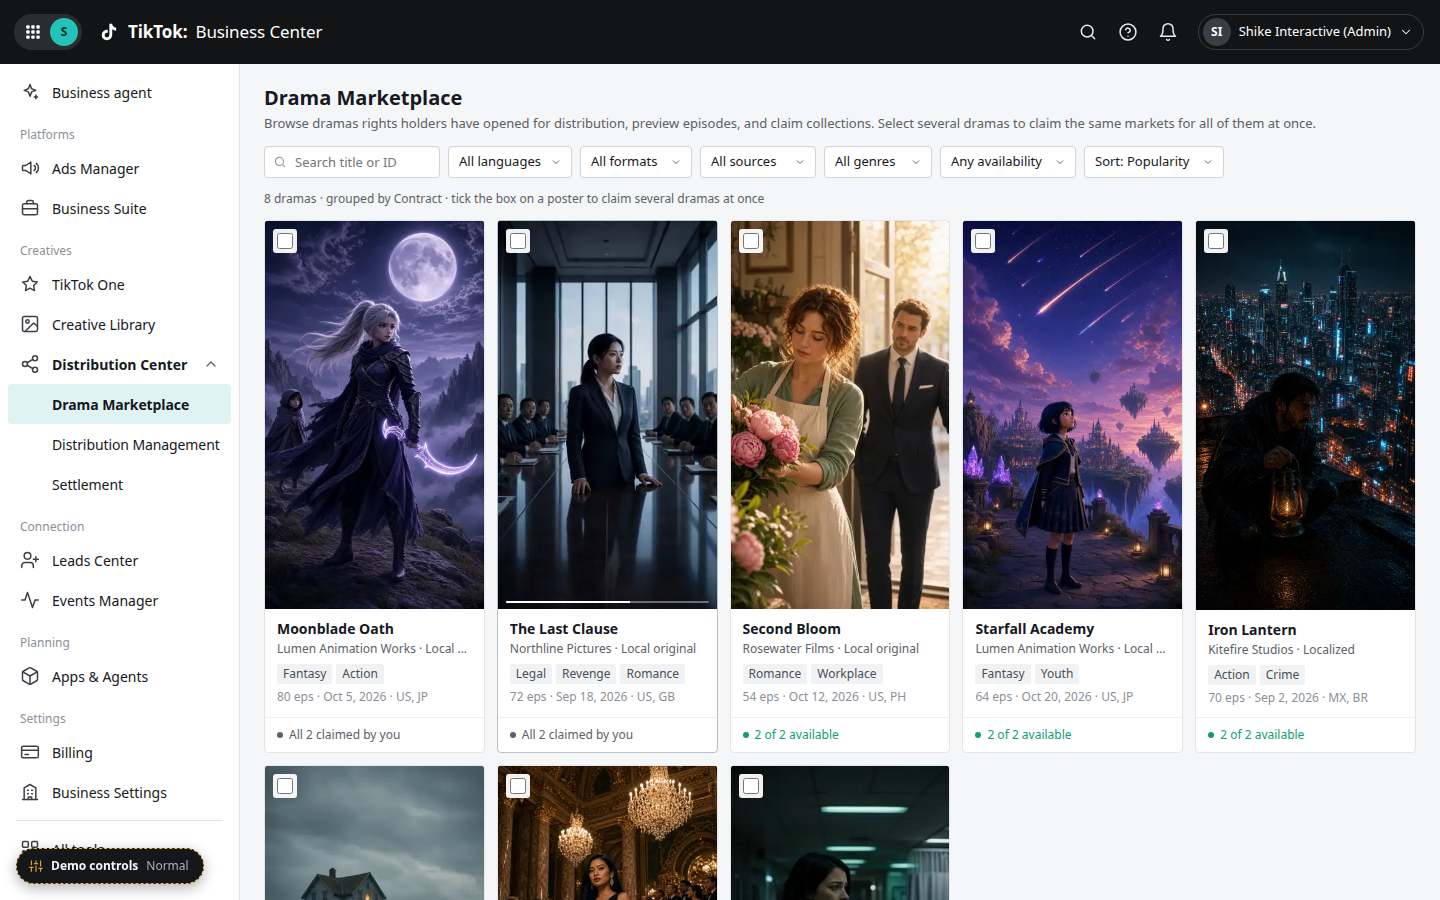
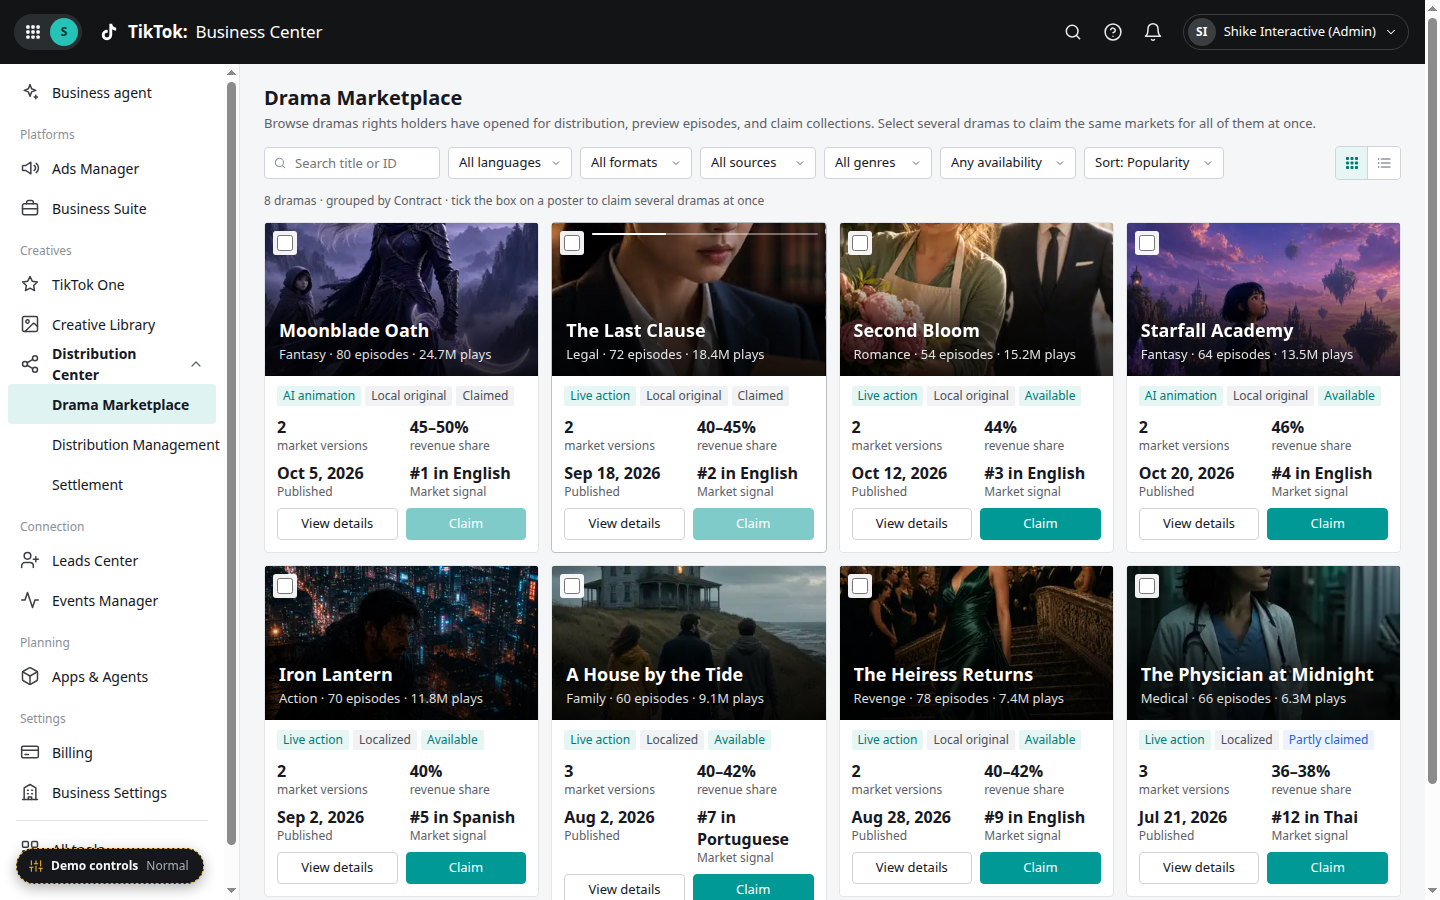
Sync prototype: Marketplace cover overlay and list view
Put title, episodes, and plays on a 16:9 cover with a dark gradient, shrink cards, and add a session-persisted card/list toggle that matches Distribution Management table chrome.

diff --git a/index.html b/index.html
@@ -77,6 +77,7 @@ button,input,select{font:inherit;color:inherit}
 .btn-icon:hover{background:var(--hover);color:var(--text)}
 .btn-link{border:0;background:none;padding:0;height:auto;color:var(--primary-t);font-weight:500;cursor:pointer;display:inline-flex;align-items:center;gap:4px;font-size:inherit}
 .btn-link:hover{text-decoration:underline}
+.btn-link[disabled]{opacity:.45;cursor:not-allowed;text-decoration:none}
 .btn[disabled]{opacity:.5;cursor:not-allowed}
 .btn.loading{pointer-events:none;opacity:.8}
 .input,.select{height:32px;border:1px solid var(--border2);border-radius:4px;background:#fff;padding:0 10px;outline:none;min-width:0}
@@ -183,12 +184,17 @@ button.kpi.on{box-shadow:inset 0 -2px 0 var(--primary)}
 .kpi-v.err{color:var(--err)}.kpi-v.warn{color:var(--warn)}
 
 /* Marketplace */
-.grid{display:grid;grid-template-columns:repeat(auto-fill,minmax(200px,1fr));gap:12px}
+.grid{display:grid;grid-template-columns:repeat(auto-fill,minmax(248px,1fr));gap:12px;align-items:start}
 .card{background:#fff;border:1px solid var(--border);border-radius:4px;overflow:hidden;cursor:pointer;display:flex;flex-direction:column;text-align:left;padding:0}
 .card:hover{border-color:#B9C0C7}
 .card:focus-visible{outline:2px solid var(--primary);outline-offset:1px}
 .card.picked{border-color:var(--primary);box-shadow:0 0 0 1px var(--primary)}
 .card-pick{width:24px;height:24px;border-radius:3px;background:rgba(255,255,255,.94);display:inline-flex;align-items:center;justify-content:center;cursor:pointer}
+.view-seg{display:inline-flex;border:1px solid var(--border2);border-radius:4px;overflow:hidden}
+.view-seg button{width:32px;height:32px;padding:0;border:0;border-right:1px solid var(--border2);background:#fff;color:var(--text2);display:inline-flex;align-items:center;justify-content:center;cursor:pointer}
+.view-seg button:last-child{border-right:0}
+.view-seg button:hover{background:var(--hover);color:var(--text)}
+.view-seg button.on{background:var(--primary-bg);color:var(--primary-t)}
 .selbar{position:fixed;left:264px;right:24px;bottom:16px;z-index:60;background:#fff;border:1px solid var(--border2);border-left:3px solid var(--primary);border-radius:4px;box-shadow:0 4px 16px rgba(22,24,35,.14);display:flex;align-items:center;gap:8px;padding:8px 12px 8px 16px}
 .selbar .grow{flex:1;min-width:0;overflow:hidden;text-overflow:ellipsis;white-space:nowrap;color:var(--text2)}
 .selbar .grow b{color:var(--text)}
@@ -207,13 +213,13 @@ button.kpi.on{box-shadow:inset 0 -2px 0 var(--primary)}
 .mk-chip .faint{font-weight:400;font-size:12px}
 .flow-h{font-size:12px;font-weight:600;color:var(--text2);margin:0 0 8px}
 .tbl td.grp{border-right:1px solid var(--row);vertical-align:top}
-.poster-box{position:relative;aspect-ratio:9/16;background:#1d2329;overflow:hidden}
-.cover .cv-media{position:absolute;inset:0;width:100%;height:100%;object-fit:cover;display:block}
+.poster-box{position:relative;aspect-ratio:16/9;background:#1d2329;overflow:hidden}
+.cover .cv-media{position:absolute;inset:0;width:100%;height:100%;object-fit:cover;display:block;z-index:0}
 .cover .cv-f{opacity:0;transition:opacity .5s}
 .cover .cv-f.on{opacity:1}
 .cover .cv-v{opacity:0;transition:opacity .25s}
 .cover .cv-v.on{opacity:1}
-.cv-prog{position:absolute;left:8px;right:8px;bottom:6px;display:flex;gap:3px;opacity:0;transition:opacity .2s;pointer-events:none}
+.cv-prog{position:absolute;left:40px;right:8px;top:10px;bottom:auto;display:flex;gap:3px;opacity:0;transition:opacity .2s;pointer-events:none;z-index:4}
 .cover.hov .cv-prog{opacity:1}
 .cover.nomedia .cv-prog{display:none}
 .cv-prog i{flex:1;height:2px;background:rgba(255,255,255,.38);border-radius:1px;overflow:hidden}
@@ -221,18 +227,27 @@ button.kpi.on{box-shadow:inset 0 -2px 0 var(--primary)}
 .cv-prog i.done b{width:100%}
 .cv-prog i.run b{animation:cvfill 800ms linear forwards}
 @keyframes cvfill{from{width:0}to{width:100%}}
-.poster-box svg.poster{position:absolute;inset:0;width:100%;height:100%;display:block}
-.poster-box .ov-tl{position:absolute;top:8px;left:8px;display:flex;gap:4px}
-.poster-box .ov-tr{position:absolute;top:8px;right:8px}
-.poster-box .ov-b{position:absolute;left:0;right:0;bottom:0;padding:24px 10px 8px;background:linear-gradient(transparent,rgba(0,0,0,.65));color:#fff;font-size:12px;display:flex;justify-content:space-between}
-.card-b{padding:10px 12px;display:flex;flex-direction:column;gap:1px;flex:1;min-width:0}
+.poster-box svg.poster{position:absolute;inset:0;width:100%;height:100%;display:block;z-index:0}
+.poster-box .ov-tl{position:absolute;top:8px;left:8px;display:flex;gap:4px;z-index:5}
+.poster-box .ov-tr{position:absolute;top:8px;right:8px;z-index:5}
+.poster-box .ov-b{position:absolute;left:0;right:0;bottom:0;padding:40px 14px 12px;background:linear-gradient(180deg,transparent 0%,rgba(0,0,0,.55) 42%,rgba(0,0,0,.82) 100%);color:#fff;display:flex;align-items:flex-end;gap:10px;z-index:3;pointer-events:none}
+.ov-copy{min-width:0;flex:1}
+.ov-t{font-size:18px;font-weight:700;line-height:24px;color:#fff;text-shadow:0 1px 2px rgba(0,0,0,.35)}
+.ov-m{font-size:13px;line-height:20px;color:rgba(255,255,255,.88);margin-top:2px}
+.card-b{padding:10px 12px 8px;display:flex;flex-direction:column;gap:10px;min-width:0}
 .card-t{font-size:14px;font-weight:600;line-height:20px;color:var(--text)}
 .card-m{font-size:12px;color:var(--text2);line-height:18px}
 .card .ell{white-space:nowrap;overflow:hidden;text-overflow:ellipsis}
-.card .tags{max-height:20px;overflow:hidden;margin:5px 0 3px}
+.card .tags{display:flex;flex-wrap:wrap;gap:4px;max-height:none;overflow:visible;margin:0}
 .card-meta{font-size:12px;color:var(--text3);line-height:18px}
+.card-stats{display:grid;grid-template-columns:1fr 1fr;gap:8px 16px}
+.card-stats .n{font-size:16px;font-weight:600;line-height:22px;color:var(--text)}
+.card-stats .l{font-size:12px;color:var(--text2);line-height:16px}
+.card-acts{display:grid;grid-template-columns:1fr 1fr;gap:8px;padding:0 12px 12px}
+.card-acts .btn{width:100%}
 .card-f{padding:7px 12px;border-top:1px solid var(--row);display:flex;align-items:center;min-height:31px;font-size:12px}
 .mk-count{font-size:12px;color:var(--text2)}
+.thumb.wide{width:48px;height:27px}
 
 /* Drawer & modal */
 .mask{position:fixed;inset:0;background:rgba(22,24,35,.45);z-index:100;opacity:0;transition:opacity .15s}
@@ -429,6 +444,7 @@ button.kpi.on{box-shadow:inset 0 -2px 0 var(--primary)}
 <svg width="0" height="0" style="position:absolute" aria-hidden="true">
   <defs>
     <symbol id="i-grid" viewBox="0 0 24 24" fill="currentColor"><rect x="3" y="3" width="4.5" height="4.5" rx="1.2"/><rect x="9.75" y="3" width="4.5" height="4.5" rx="1.2"/><rect x="16.5" y="3" width="4.5" height="4.5" rx="1.2"/><rect x="3" y="9.75" width="4.5" height="4.5" rx="1.2"/><rect x="9.75" y="9.75" width="4.5" height="4.5" rx="1.2"/><rect x="16.5" y="9.75" width="4.5" height="4.5" rx="1.2"/><rect x="3" y="16.5" width="4.5" height="4.5" rx="1.2"/><rect x="9.75" y="16.5" width="4.5" height="4.5" rx="1.2"/><rect x="16.5" y="16.5" width="4.5" height="4.5" rx="1.2"/></symbol>
+    <symbol id="i-list" viewBox="0 0 24 24" fill="none" stroke="currentColor" stroke-width="1.8" stroke-linecap="round"><path d="M8 6h13M8 12h13M8 18h13"/><circle cx="4" cy="6" r="1.2" fill="currentColor" stroke="none"/><circle cx="4" cy="12" r="1.2" fill="currentColor" stroke="none"/><circle cx="4" cy="18" r="1.2" fill="currentColor" stroke="none"/></symbol>
     <symbol id="i-tiktok" viewBox="0 0 24 24" fill="currentColor"><path d="M16.6 5.8A4.3 4.3 0 0 1 15.5 3h-3.1v12.4a2.6 2.6 0 1 1-2.6-2.6c.3 0 .5 0 .8.1V9.7a5.7 5.7 0 1 0 4.9 5.7V9.1a7.4 7.4 0 0 0 4.3 1.4V7.4a4.3 4.3 0 0 1-3.2-1.6z"/></symbol>
     <symbol id="i-search" viewBox="0 0 24 24" fill="none" stroke="currentColor" stroke-width="1.8" stroke-linecap="round" stroke-linejoin="round"><circle cx="11" cy="11" r="7"/><path d="m20 20-3.6-3.6"/></symbol>
     <symbol id="i-help" viewBox="0 0 24 24" fill="none" stroke="currentColor" stroke-width="1.8" stroke-linecap="round" stroke-linejoin="round"><circle cx="12" cy="12" r="9.5"/><path d="M9.2 9.2a2.9 2.9 0 0 1 5.6 1c0 1.9-2.8 2.6-2.8 2.6"/><path d="M12 17h.01"/></symbol>
@@ -624,7 +640,7 @@ const S = {state:'normal', page:null, data:null, after:null};
 const UI = freshUI();
 function freshUI(){
   return {
-    mk:{q:'', lang:'all', format:'all', source:'all', genre:'all', avail:'all', sort:'pop'},
+    mk:{q:'', lang:'all', format:'all', source:'all', genre:'all', avail:'all', sort:'pop', view:'card', page:1, size:10},
     lv:{q:'', status:'all', market:'all', range:'30', from:'2026-10-07', to:DEMO_TODAY, page:1, size:10, menu:null},
     pick:new Set(),
     bd:{q:'', open:new Set(['CTR-902184'])},
@@ -995,6 +1011,79 @@ function claimSummary(ctrId){
   if (n('available')) return `<span class="st ok">${n('available')} of ${cs.length} available</span>`;
   return `<span class="st muted">All ${cs.length} claimed by you</span>`;
 }
+function mkStats(c){
+  const cs = colsOf(c.id);
+  const avail = cs.filter(x => x.claim === 'available' && x.dist === 'open');
+  const claimed = cs.filter(x => x.claim === 'claimed').length;
+  const confirming = cs.filter(x => x.claim === 'confirming').length;
+  const shares = cs.map(x => x.share);
+  const lo = Math.min.apply(null, shares), hi = Math.max.apply(null, shares);
+  const share = !shares.length ? '—' : lo === hi ? lo + '%' : lo + '–' + hi + '%';
+  let status = 'Available', statusCls = 'teal';
+  if (confirming && !avail.length){ status = 'Confirming'; statusCls = 'info'; }
+  else if (avail.length && claimed){ status = 'Partly claimed'; statusCls = 'info'; }
+  else if (!avail.length && claimed === cs.length){ status = 'Claimed'; statusCls = ''; }
+  else if (!avail.length){ status = 'Unavailable'; statusCls = 'err'; }
+  const lang = cs[0] ? cs[0].lang : '';
+  return {n:cs.length, share, status, statusCls, canClaim:avail.length > 0, pre:avail.map(x => x.id), genre:c.genres[0] || '', signal:'#' + c.rank + (lang ? ' in ' + lang : '')};
+}
+function mkViewSeg(){
+  const v = UI.mk.view === 'list' ? 'list' : 'card';
+  return `<div class="view-seg" role="tablist" aria-label="Marketplace view">
+    <button type="button" class="${v === 'card' ? 'on' : ''}" data-act="mk-view" data-v="card" role="tab" aria-selected="${v === 'card'}" aria-label="Card view">${ic('grid', 16)}</button>
+    <button type="button" class="${v === 'list' ? 'on' : ''}" data-act="mk-view" data-v="list" role="tab" aria-selected="${v === 'list'}" aria-label="List view">${ic('list', 16)}</button>
+  </div>`;
+}
+function mkPagerHtml(total){
+  const size = UI.mk.size || 10;
+  const pages = Math.max(1, Math.ceil(total / size));
+  const p = Math.min(Math.max(1, UI.mk.page || 1), pages);
+  let nums = '';
+  for (let i = 1; i <= pages; i++) nums += `<button type="button" class="pg-btn ${i === p ? 'on' : ''}" data-act="mk-page" data-p="${i}" ${i === p ? 'aria-current="page"' : ''}>${i}</button>`;
+  const from = total ? (p - 1) * size + 1 : 0, to = Math.min(p * size, total);
+  return `<div class="pager">
+    <label class="faint" style="display:inline-flex;align-items:center;gap:6px">Rows per page
+      <select class="select" style="width:68px" name="mk-size" data-chg="mk-size" aria-label="Page size">${[10, 20].map(n => `<option value="${n}" ${size === n ? 'selected' : ''}>${n}</option>`).join('')}</select>
+    </label>
+    <div class="pg-pages">
+      <button type="button" class="pg-btn" data-act="mk-page" data-p="${p - 1}" ${p <= 1 ? 'disabled' : ''} aria-label="Previous page">${ic('chev-left', 14)}</button>
+      ${nums}
+      <button type="button" class="pg-btn" data-act="mk-page" data-p="${p + 1}" ${p >= pages ? 'disabled' : ''} aria-label="Next page">${ic('chev-right', 14)}</button>
+    </div>
+    <span class="faint">${from}–${to} of ${plural(total, 'drama')}</span>
+  </div>`;
+}
+function mkList(list){
+  const size = UI.mk.size || 10;
+  const pages = Math.max(1, Math.ceil(list.length / size));
+  const page = Math.min(Math.max(1, UI.mk.page || 1), pages);
+  if (UI.mk.page !== page) UI.mk.page = page;
+  const rows = list.slice((page - 1) * size, page * size);
+  const head = `<thead><tr>
+    <th style="width:22%">Drama</th>
+    <th style="width:20%">Tags</th>
+    <th class="num" style="width:80px">Markets</th>
+    <th class="num" style="width:110px">Revenue share</th>
+    <th style="width:100px">Published</th>
+    <th style="width:12%">Market signal</th>
+    <th style="width:110px">Status</th>
+    <th class="act" style="width:168px">Action</th>
+  </tr></thead>`;
+  const body = rows.map(c => {
+    const st = mkStats(c);
+    return `<tr class="clickable" data-act="open-drama" data-id="${c.id}">
+      <td><div class="drama-cell"><div class="thumb wide">${poster(c.id)}</div><div class="meta"><div class="cell-title ell" title="${esc(c.title)}">${c.title}</div><div class="cell-sub ell">${esc(st.genre)} · ${c.episodes} episodes · ${esc(c.plays)} plays</div></div></div></td>
+      <td><div class="tags"><span class="tag teal">${esc(c.format)}</span><span class="tag">${esc(c.source)}</span></div></td>
+      <td class="num">${st.n}</td>
+      <td class="num">${st.share}</td>
+      <td class="nowrap">${c.launchL}</td>
+      <td>${esc(st.signal)}</td>
+      <td><span class="tag ${st.statusCls}">${st.status}</span></td>
+      <td class="act"><div class="act-row"><button type="button" class="btn-link" data-act="open-drama" data-id="${c.id}">View details</button><button type="button" class="btn-link" data-act="mk-claim" data-id="${c.id}" ${st.canClaim ? '' : 'disabled'}>Claim</button></div></td>
+    </tr>`;
+  }).join('');
+  return `<div class="panel"><div class="tbl-wrap"><table class="tbl">${head}<tbody>${body}</tbody></table></div>${mkPagerHtml(list.length)}</div>`;
+}
 function mkFiltered(){
   const f = UI.mk; const q = f.q.trim().toLowerCase();
   let list = CONTRACTS.filter(c => {
@@ -1033,10 +1122,13 @@ function pageMarketplace(){
       ${sel('mk.genre', f.genre, [['all','All genres']].concat(genres.map(g => [g, g])), 'Genre', 108)}
       ${sel('mk.avail', f.avail, [['all','Any availability'],['available','Has available collections'],['claimed','Claimed by me']], 'Availability', 136)}
       ${sel('mk.sort', f.sort, [['pop','Sort: Popularity'],['new','Sort: Newest'],['eps','Sort: Fewest episodes']], 'Sort', 140)}
-    </div></div>`;
+    </div><div class="right">${mkViewSeg()}</div></div>`;
   }
+  const listView = f.view === 'list';
   if (st === 'loading'){
-    out += '<div class="grid">' + Array.from({length:4}, () => '<div class="card" style="cursor:default"><div class="poster-box sk" style="border-radius:0"></div><div class="card-b"><div class="sk" style="height:14px;width:70%"></div><div class="sk" style="height:10px;width:50%"></div><div class="sk" style="height:10px;width:85%"></div></div></div>').join('') + '</div>';
+    out += listView
+      ? `<div class="panel"><div class="tbl-wrap"><table class="tbl"><thead><tr><th>Drama</th><th>Tags</th><th>Markets</th><th>Revenue share</th><th>Published</th><th>Market signal</th><th>Status</th><th>Action</th></tr></thead><tbody>${skelRows(6, 8)}</tbody></table></div></div>`
+      : '<div class="grid">' + Array.from({length:4}, () => '<div class="card" style="cursor:default"><div class="poster-box sk" style="border-radius:0"></div><div class="card-b"><div class="sk" style="height:14px;width:70%"></div><div class="sk" style="height:10px;width:50%"></div><div class="sk" style="height:10px;width:85%"></div></div></div>').join('') + '</div>';
   } else if (st === 'error'){
     out += errorBlock('dramas');
   } else if (st === 'empty'){
@@ -1044,9 +1136,9 @@ function pageMarketplace(){
   } else {
     const list = mkFiltered();
     const pk = UI.pick.size;
-    out += `<div class="mk-count">${plural(list.length, 'drama')} · grouped by Contract${pk ? '' : ' · tick the box on a poster to claim several dramas at once'}</div>`;
+    out += `<div class="mk-count">${plural(list.length, 'drama')} · grouped by Contract${listView || pk ? '' : ' · tick the box on a poster to claim several dramas at once'}</div>`;
     if (!list.length) out += '<div class="panel">' + emptyBlock('search', 'No dramas match your filters', 'Try a different keyword or clear filters.', '<button class="btn" data-act="mk-clear">Clear filters</button>') + '</div>';
-    else out += '<div class="grid">' + list.map(card).join('') + '</div>';
+    else out += listView ? mkList(list) : '<div class="grid">' + list.map(card).join('') + '</div>';
     if (pk){
       const names = Array.from(UI.pick).map(id => ctrOf(id).title);
       out += `<div class="page-pad-sel"></div><div class="selbar" role="region" aria-label="Selected dramas"><span class="grow"><b>${plural(pk, 'drama')} selected</b> · ${esc(names.join(', '))}</span><button class="btn" data-act="pick-all">Select all shown</button><button class="btn" data-act="pick-clear">Clear</button><button class="btn btn-primary" data-act="bulk-claim">Claim collections</button></div>`;
@@ -1062,19 +1154,26 @@ function cover(id){
 }
 function card(c){
   const on = UI.pick.has(c.id);
-  const markets = Array.from(new Set(colsOf(c.id).map(x => x.code))).join(', ');
-  const meta = `${c.episodes} eps · ${c.launchL} · ${markets}`;
+  const st = mkStats(c);
+  const meta = `${st.genre} · ${c.episodes} episodes · ${c.plays} plays`;
   return `<div class="card ${on ? 'picked' : ''}" role="button" tabindex="0" data-act="open-drama" data-id="${c.id}" aria-label="${esc(c.title)}">
     ${cover(c.id)}
       <div class="ov-tl"><label class="card-pick" title="Select for bulk claim"><input type="checkbox" class="cb" name="pick-${c.id}" data-chg="mk-pick" data-id="${c.id}" ${on ? 'checked' : ''} aria-label="Select ${esc(c.title)}"></label></div>
+      <div class="ov-b"><div class="ov-copy"><div class="ov-t ell" title="${esc(c.title)}">${c.title}</div><div class="ov-m ell" title="${esc(meta)}">${esc(meta)}</div></div></div>
     </div>
     <div class="card-b">
-      <div class="card-t ell" title="${esc(c.title)}">${c.title}</div>
-      <div class="card-m ell" title="${esc(c.holder + ' · ' + c.source)}">${c.holder} · ${c.source}</div>
-      <div class="tags">${c.genres.map(g => '<span class="tag">' + g + '</span>').join('')}</div>
-      <div class="card-meta ell" title="${esc(c.episodes + ' episodes · launched ' + c.launchL + ' · markets ' + markets)}">${meta}</div>
+      <div class="tags"><span class="tag teal">${esc(c.format)}</span><span class="tag">${esc(c.source)}</span><span class="tag ${st.statusCls}">${st.status}</span></div>
+      <div class="card-stats">
+        <div><div class="n">${st.n}</div><div class="l">market versions</div></div>
+        <div><div class="n">${st.share}</div><div class="l">revenue share</div></div>
+        <div><div class="n">${c.launchL}</div><div class="l">Published</div></div>
+        <div><div class="n">${esc(st.signal)}</div><div class="l">Market signal</div></div>
+      </div>
     </div>
-    <div class="card-f">${claimSummary(c.id)}</div></div>`;
+    <div class="card-acts">
+      <button type="button" class="btn" data-act="open-drama" data-id="${c.id}">View details</button>
+      <button type="button" class="btn btn-primary" data-act="mk-claim" data-id="${c.id}" ${st.canClaim ? '' : 'disabled'}>Claim</button>
+    </div></div>`;
 }
 
 /* Cover hover previews: clip, keyframes, static */
@@ -1084,7 +1183,8 @@ function coverEnter(box){
   const id = box.dataset.id, m = box.dataset.cover;
   if (m === 'frames'){
     const n = MEDIA[id][1]; const prog = box.querySelector('.cv-prog');
-    for (let i = 2; i <= n; i++) if (!box.querySelector('.cv-f[data-f="' + i + '"]')){ const im = document.createElement('img'); im.className = 'cv-media cv-f'; im.dataset.f = i; im.alt = ''; im.decoding = 'async'; im.src = frameSrc(id, i); box.insertBefore(im, prog); }
+    const before = prog || box.querySelector('.ov-b');
+    for (let i = 2; i <= n; i++) if (!box.querySelector('.cv-f[data-f="' + i + '"]')){ const im = document.createElement('img'); im.className = 'cv-media cv-f'; im.dataset.f = i; im.alt = ''; im.decoding = 'async'; im.src = frameSrc(id, i); box.insertBefore(im, before); }
     let k = 0;
     const step = () => {
       $$('.cv-f', box).forEach((im, j) => im.classList.toggle('on', j === k));
@@ -1096,7 +1196,7 @@ function coverEnter(box){
     if (!v){
       v = document.createElement('video'); v.className = 'cv-media cv-v'; v.muted = true; v.loop = true; v.playsInline = true; v.preload = 'auto'; v.setAttribute('aria-hidden', 'true');
       v.addEventListener('playing', () => { if (HOV.el === box) v.classList.add('on'); });
-      v.src = clipSrc(id); box.insertBefore(v, box.querySelector('.cv-prog'));
+      v.src = clipSrc(id); box.insertBefore(v, box.querySelector('.cv-prog') || box.querySelector('.ov-b'));
     }
     try { v.currentTime = 0; } catch (e) {}
     const p = v.play(); if (p && p.catch) p.catch(() => {});
@@ -2062,7 +2162,16 @@ const ACT = {
   'dismiss': el => { UI.dismissed.add(el.dataset.k); render(); },
   'stm-fx-dismiss': (el, e) => { if (e) e.stopPropagation(); UI.dismissed.add('stm-fx-' + el.dataset.id); refreshDrawer(); },
   'retry': el => { const b = el; busy(b, 700, () => { setState('normal'); toast('Loaded successfully.'); }); },
-  'mk-clear': () => { UI.mk = freshUI().mk; render(); },
+  'mk-clear': () => { const v = UI.mk.view; UI.mk = freshUI().mk; UI.mk.view = v || 'card'; render(); },
+  'mk-view': el => { UI.mk.view = el.dataset.v === 'list' ? 'list' : 'card'; coverLeave(); render(); },
+  'mk-page': el => { UI.mk.page = +el.dataset.p; render(); },
+  'mk-claim': (el, e) => {
+    if (e) e.stopPropagation();
+    const c = ctrOf(el.dataset.id); if (!c) return;
+    const st = mkStats(c);
+    if (!st.canClaim){ toast('No collections available to claim on this drama.', 'warn'); return; }
+    openDrama(c.id, st.pre);
+  },
   'open-drama': (el, e) => { if (e) e.stopPropagation(); openDrama(el.dataset.id, el.dataset.pre ? [el.dataset.pre] : null); },
   'pl-toggle': () => playToggle(),
   'pl-prev': () => setEp(PL.ep - 1),
@@ -2191,6 +2300,7 @@ const CHG = {
       if (key === 'range' && el.value === 'custom'){ if (!UI.lv.from) UI.lv.from = '2026-10-07'; if (!UI.lv.to) UI.lv.to = DEMO_TODAY; }
     }
     if (grp === 'st') UI.st.page = 1;
+    if (grp === 'mk') UI.mk.page = 1;
     render();
   },
   'mk-pick': el => { el.checked ? UI.pick.add(el.dataset.id) : UI.pick.delete(el.dataset.id); render(); },
@@ -2198,6 +2308,7 @@ const CHG = {
   'dr-sel': el => { el.checked ? DS.sel.add(el.dataset.id) : DS.sel.delete(el.dataset.id); refreshDrawer(); },
   'lv-size': el => { UI.lv.size = +el.value || 10; UI.lv.page = 1; UI.lv.menu = null; render(); },
   'st-size': el => { UI.st.size = +el.value || 10; UI.st.page = 1; render(); },
+  'mk-size': el => { UI.mk.size = +el.value || 10; UI.mk.page = 1; render(); },
   'lv-from': el => { UI.lv.from = el.value; UI.lv.page = 1; render(); },
   'lv-to': el => { UI.lv.to = el.value; UI.lv.page = 1; render(); },
   'ld-vis': el => { LD.vis[el.dataset.k] = el.checked; refreshDrawer(); },
@@ -2224,7 +2335,7 @@ const CHG = {
   'stm-ack': el => { CS.ack = el.checked; const b = $('[data-act="stm-confirm-submit"]'); if (b) b.disabled = !CS.ack; }
 };
 const INP = {
-  'mk-q': el => { UI.mk.q = el.value; render(); },
+  'mk-q': el => { UI.mk.q = el.value; UI.mk.page = 1; render(); },
   'lv-q': el => { UI.lv.q = el.value; UI.lv.page = 1; render(); },
   'bd-q': el => { UI.bd.q = el.value; render(); }
 };

diff --git a/README.md b/README.md
@@ -8,7 +8,7 @@ An interactive HTML prototype (one `index.html` plus a folder of cover media) of
 
 Three business modules, all under **Creatives → Distribution Center** in the left nav:
 
-- **Drama Marketplace** — browse distributable dramas on cards with 9:16 portrait covers and claim collections, one drama at a time or in bulk: tick the checkbox on several drama cards, then **Claim collections** to claim across multiple contracts at once. Claiming is a two-step flow: **Confirm selection** (pick the collections to claim) → **Generate links** (distribution links are generated, with **Copy all** / **Export all** for use in TTAM).
+- **Drama Marketplace** — browse distributable dramas in card or list view (icon toggle on the filter row; the choice sticks for the session). Cards use 16:9 covers with title, episode count, and plays on a dark bottom gradient. Claim collections one drama at a time or in bulk: tick the checkbox on several drama cards, then **Claim collections** to claim across multiple contracts at once. Claiming is a two-step flow: **Confirm selection** (pick the collections to claim) → **Generate links** (distribution links are generated, with **Copy all** / **Export all** for use in TTAM).
 - **Distribution Management** — link view (drama, publisher account, revenue, status) and by-drama view. Export links, open TTAM from row actions, and monitor validity. Claiming in Marketplace auto-generates links.
 - **Settlement** — settlement statements and confirmation.
 
@@ -29,6 +29,8 @@ Each view/state combination is deep-linkable, e.g. `#/distribution/links?state=i
 ## Screenshots
 
 ![Drama Marketplace](screenshots/marketplace.png)
+
+![Drama Marketplace — list view](screenshots/marketplace-list.png)
 
 ![Drama Marketplace — cover hover preview](screenshots/marketplace-hover.png)
 
